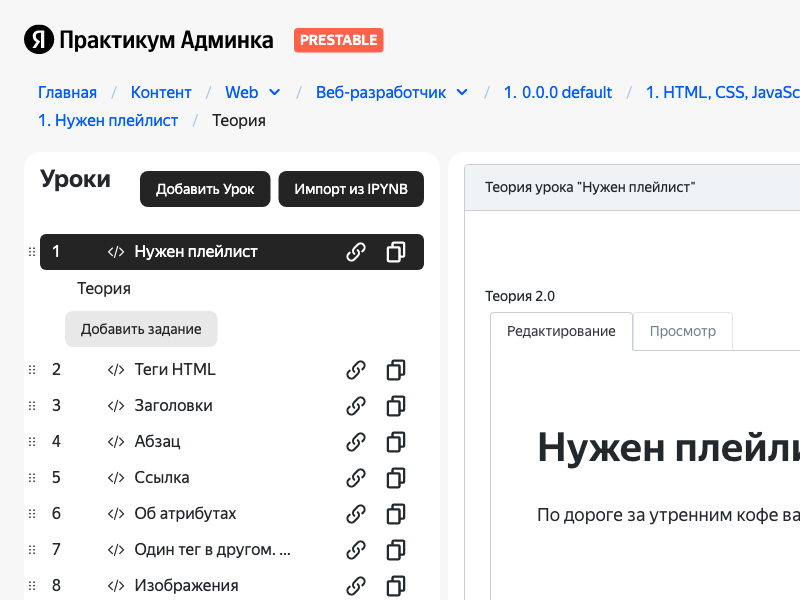
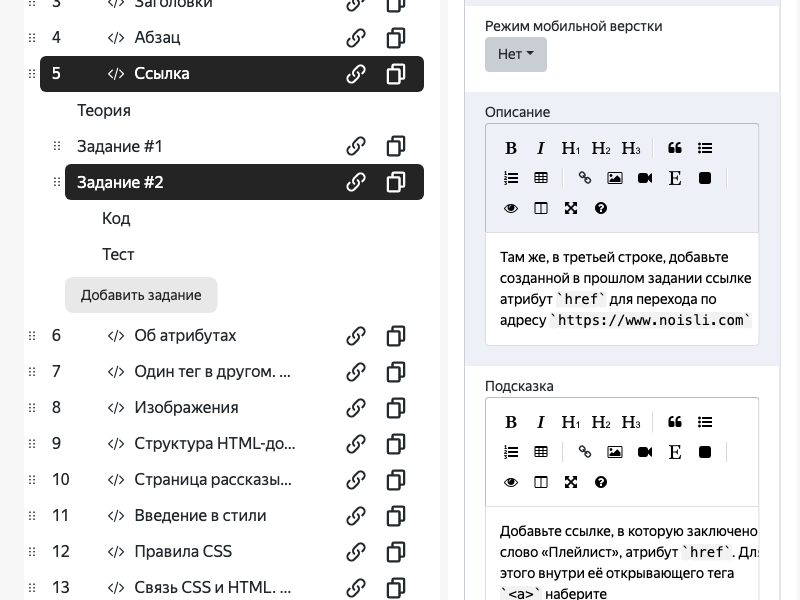
v1.0: can parse tasks + better file system

diff --git a/src/createDB.js b/src/createDB.js
@@ -1,17 +1,49 @@
 import { mkdir, writeFile } from "./fsFuncs.js";
 
+async function parseTask(path, page, task) {
+  await task
+    .click()
+    .then(() => page.waitForSelector(".CodeMirror"))
+    .then(() => page.$$(".CodeMirror"))
+    .then(
+      async (tasks) =>
+        await Promise.all(tasks.map((el) => el.getProperty("innerText")))
+    )
+    .then(
+      async (textsJSON) =>
+        await Promise.all(textsJSON.map((el) => el.jsonValue()))
+    )
+    .then((texts) => {
+      writeFile(`${path}/1. task.md`, texts[0]);
+      writeFile(`${path}/2. hint.md`, texts[1]);
+      writeFile(`${path}/3. success.md`, texts[2]);
+      writeFile(`${path}/url.md`, page.url());
+    });
+}
+
 async function parseItems(path, page, row) {
   await row.click().then(async () => {
     await row
       .$(".expandable-item__content > .menu-item")
       .then(async (menuItem) => await menuItem.click())
+      .then(async () => await page.waitForSelector(".theory-editor__block"))
       .then(async () => {
-        await page.waitForSelector(".theory-editor__block").then(async () => {
-          const content = await page.$$eval(".Markdown", (els) => {
+        const content = await page.$$eval(
+          ".sortable__content .Markdown",
+          (els) => {
             return els.reduce((summury, el) => summury + el.innerHTML, "");
-          });
-          writeFile(`${path}/theory.md`, content);
-        });
+          }
+        );
+        writeFile(`${path}/theory.md`, content);
+        writeFile(`${path}/url.md`, page.url());
+        const tasks = await page.$$(".lessons__task");
+        if (tasks.length > 0) {
+          for (let i = 0; i < tasks.length; i++) {
+            const nextPath = `${path}/Задание ${i + 1}`;
+            mkdir(nextPath);
+            await parseTask(nextPath, page, tasks[i]);
+          }
+        }
       });
   });
 }
@@ -31,12 +63,12 @@ async function parseLessons(path, url, page) {
 async function parseTopics(path, url, page) {
   await page.goto(url);
   await page.$$(".table-list__row").then(async (rows) => {
-    if (rows.length > 0) {
+    if (rows.length > 1) {
       const pathToUrl = {};
-      for (let i = 0; i < rows.length; i++) {
+      for (let i = 1; i < rows.length; i++) {
         const url = await rows[i].$eval("a", (a) => a.href);
         const name = await rows[i].$$eval("a", (as) =>
-          as.reduce((fullName, a) => fullName + " " + a.textContent, "")
+          as.reduce((fullName, a) => fullName + " " + a.innerText, "")
         );
         const nextPath = `${path}/${name}`;
         mkdir(nextPath);
@@ -53,11 +85,11 @@ async function parseTopics(path, url, page) {
 
 export async function parseCourses(path, page) {
   await page.$$(".table-list__row").then(async (rows) => {
-    if (rows.length > 0) {
+    if (rows.length > 1) {
       const pathToUrl = {};
-      for (let i = 0; i < rows.length; i++) {
+      for (let i = 1; i < rows.length; i++) {
         const url = await rows[i].$eval("a", (a) => a.href);
-        const name = await rows[i].$eval("a", (a) => a.textContent);
+        const name = await rows[i].$eval("a", (a) => a.innerText);
         const nextPath = `${path}/${name}`;
         mkdir(nextPath);
         writeFile(`${nextPath}/url.md`, url);
